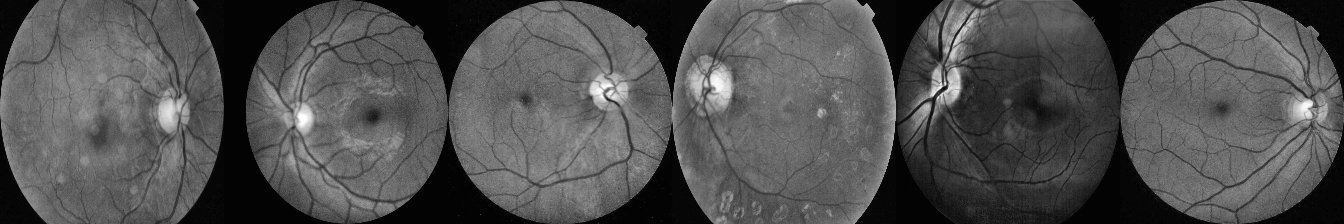
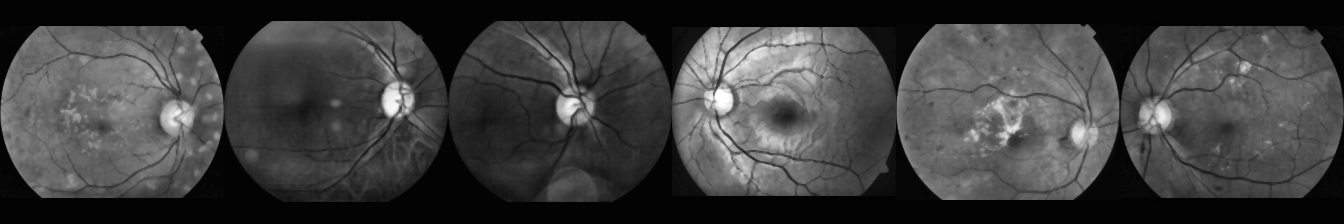
chore: validate regenerated DR preprocessing outputs

diff --git a/capstone-project/scripts/validate_preprocessed.py b/capstone-project/scripts/validate_preprocessed.py
@@ -19,15 +19,15 @@ Exits with status 0 if all checks pass, 1 otherwise.
 
 from __future__ import annotations
 
-import sys
+import argparse
 import json
+import sys
 from pathlib import Path
 
 import cv2
 import numpy as np
 
-DATA_DIR = Path("data/preprocessed")
-SAMPLES_DIR = DATA_DIR / "_samples"
+DEFAULT_DATA_DIR = Path("data/preprocessed")
 SPLITS = ["train", "val", "test"]
 EXPECTED_SHAPE = (224, 224, 1)
 EXPECTED_DTYPE = np.float32  # pipeline normalises pixels to [0, 1]
@@ -51,17 +51,27 @@ class Report:
         print(f"  [ OK ] {msg}")
 
 
-def load_split(split: str, report: Report) -> tuple[np.ndarray, np.ndarray] | None:
-    x_path = DATA_DIR / f"X_{split}.npy"
-    y_path = DATA_DIR / f"y_{split}.npy"
+def parse_args() -> argparse.Namespace:
+    parser = argparse.ArgumentParser(description="Validate preprocessed DR arrays.")
+    parser.add_argument("--data-dir", type=Path, default=DEFAULT_DATA_DIR)
+    return parser.parse_args()
+
+
+def load_split(
+    data_dir: Path,
+    split: str,
+    report: Report,
+) -> tuple[np.ndarray, np.ndarray] | None:
+    x_path = data_dir / f"X_{split}.npy"
+    y_path = data_dir / f"y_{split}.npy"
     if not x_path.exists() or not y_path.exists():
         report.fail(f"missing {x_path.name} or {y_path.name}")
         return None
     return np.load(x_path), np.load(y_path)
 
 
-def load_smote_flag(report: Report) -> bool:
-    metadata_path = DATA_DIR / "splits" / "metadata.json"
+def load_smote_flag(data_dir: Path, report: Report) -> bool:
+    metadata_path = data_dir / "splits" / "metadata.json"
     if not metadata_path.exists():
         report.warn(f"missing {metadata_path}; assuming baseline without SMOTE")
         return False
@@ -140,14 +150,21 @@ def check_split(
                         f"DR split. SMOTE may have leaked into {split}.")
 
 
-def save_samples(split: str, X: np.ndarray, y: np.ndarray, n: int = 6) -> Path:
-    SAMPLES_DIR.mkdir(parents=True, exist_ok=True)
+def save_samples(
+    data_dir: Path,
+    split: str,
+    X: np.ndarray,
+    y: np.ndarray,
+    n: int = 6,
+) -> Path:
+    samples_dir = data_dir / "_samples"
+    samples_dir.mkdir(parents=True, exist_ok=True)
     rng = np.random.default_rng(0)
     idx = rng.choice(len(X), size=min(n, len(X)), replace=False)
     grid = np.concatenate([X[i].squeeze(axis=-1) for i in idx], axis=1)
     # X is float32 in [0, 1]; scale back to 8-bit for PNG export.
     grid = (np.clip(grid, 0.0, 1.0) * 255).round().astype(np.uint8)
-    out = SAMPLES_DIR / f"{split}_samples.png"
+    out = samples_dir / f"{split}_samples.png"
     cv2.imwrite(str(out), grid)
     labels = [int(y[i]) for i in idx]
     print(f"  wrote {out}  (labels left->right: {labels})")
@@ -155,17 +172,20 @@ def save_samples(split: str, X: np.ndarray, y: np.ndarray, n: int = 6) -> Path:
 
 
 def main() -> int:
-    if not DATA_DIR.exists():
-        print(f"[FAIL] {DATA_DIR} does not exist. Run main.py first.")
+    args = parse_args()
+    data_dir = args.data_dir
+
+    if not data_dir.exists():
+        print(f"[FAIL] {data_dir} does not exist. Run main.py first.")
         return 1
 
     report = Report()
-    smote_train = load_smote_flag(report)
+    smote_train = load_smote_flag(data_dir, report)
     loaded: dict[str, tuple[np.ndarray, np.ndarray]] = {}
 
     for split in SPLITS:
         print(f"\n=== {split.upper()} ===")
-        data = load_split(split, report)
+        data = load_split(data_dir, split, report)
         if data is None:
             continue
         loaded[split] = data
@@ -173,8 +193,8 @@ def main() -> int:
 
     print("\n=== SAMPLES ===")
     for split, (X, y) in loaded.items():
-        save_samples(split, X, y)
-    print(f"  open {SAMPLES_DIR} and check the retinas look reasonable "
+        save_samples(data_dir, split, X, y)
+    print(f"  open {data_dir / '_samples'} and check the retinas look reasonable "
           f"(resized, contrast-enhanced, denoised).")
 
     print("\n=== SUMMARY ===")

diff --git a/docs/superpowers/plans/2026-06-13-dr-pipeline-fix.md b/docs/superpowers/plans/2026-06-13-dr-pipeline-fix.md
@@ -1285,7 +1285,7 @@ git commit -m "feat: separate SMOTE preprocessing experiment"
 - Generated but not committed: `capstone-project/data/preprocessed/splits/*.csv`
 - Generated sample images: `capstone-project/data/preprocessed/_samples/*.png`
 
-- [ ] **Step 1: Generate baseline preprocessed arrays**
+- [x] **Step 1: Generate baseline preprocessed arrays**
 
 Run from `capstone-project`:
 
@@ -1304,7 +1304,7 @@ Saved X_test (..., 224, 224, 1) (float32)
 Saved y_test (...)
 ```
 
-- [ ] **Step 2: Validate baseline arrays**
+- [x] **Step 2: Validate baseline arrays**
 
 Run:
 
@@ -1314,7 +1314,7 @@ uv run python scripts/validate_preprocessed.py
 
 Expected: no failures. Warnings are acceptable only if they are manually understood and documented in the final implementation notes.
 
-- [ ] **Step 3: Generate SMOTE arrays**
+- [x] **Step 3: Generate SMOTE arrays**
 
 Run:
 
@@ -1324,7 +1324,7 @@ uv run python main.py --out-dir data/preprocessed_smote --smote-train
 
 Expected: train split balanced; val/test natural.
 
-- [ ] **Step 4: Validate SMOTE arrays**
+- [x] **Step 4: Validate SMOTE arrays**
 
 Run:
 
@@ -1338,7 +1338,7 @@ If `--data-dir` does not exist yet, first modify the validator to accept:
 parser.add_argument("--data-dir", type=Path, default=Path("data/preprocessed"))
 ```
 
-- [ ] **Step 5: Commit only validator changes and sample images if intentionally tracked**
+- [x] **Step 5: Commit only validator changes and sample images if intentionally tracked**
 
 Generated `.npy` files should stay ignored unless the team explicitly decides otherwise.
 